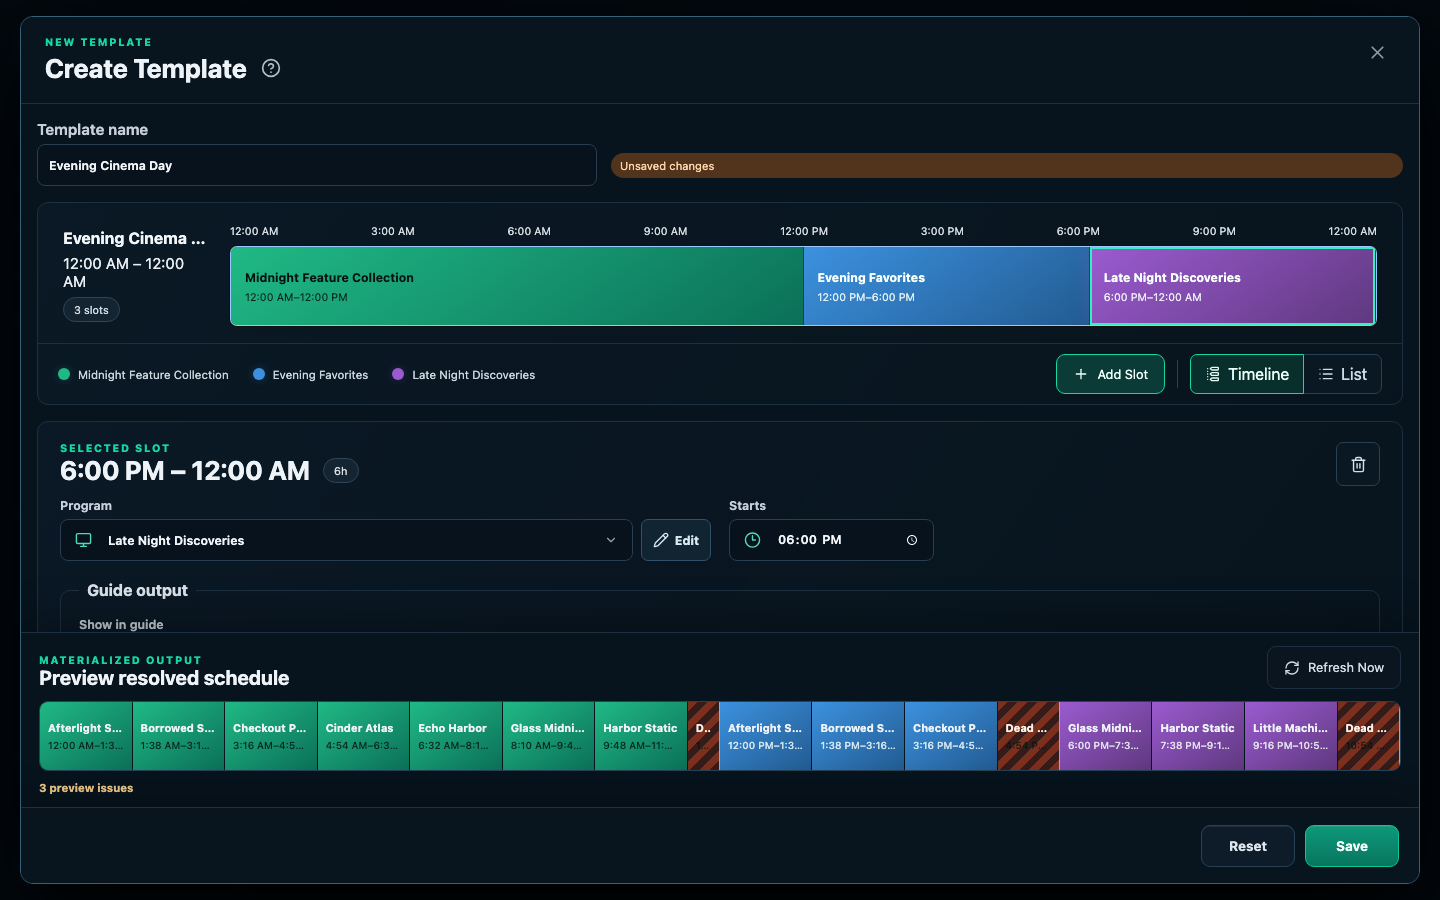
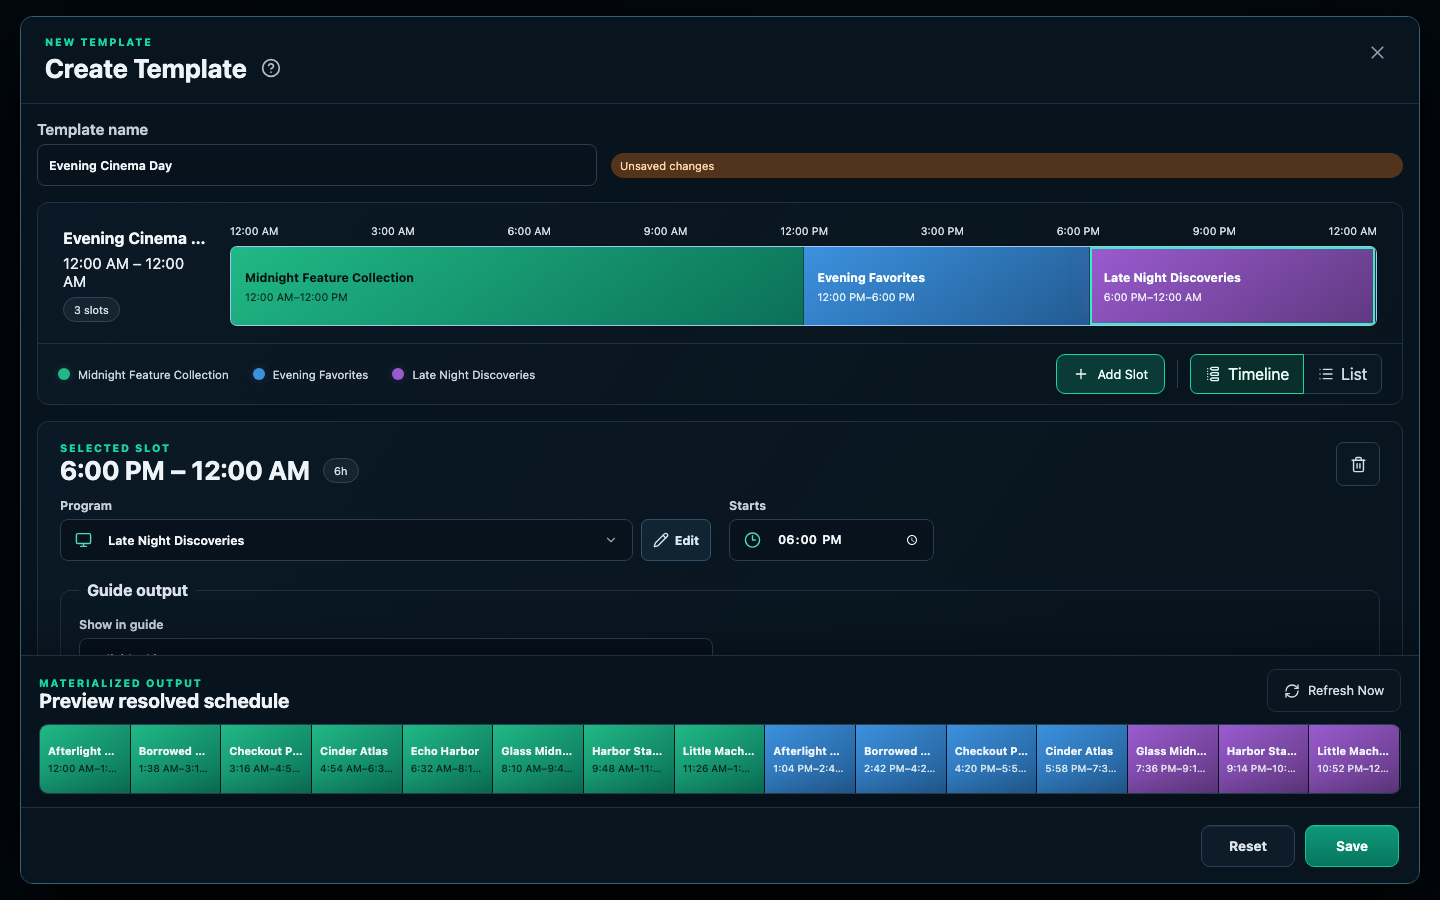
Modified new template defaults

Changed region(s): [[0.0, 0.6844, 1.0, 0.9022]]

diff --git a/tests/e2e/user-documentation.spec.ts b/tests/e2e/user-documentation.spec.ts
@@ -182,6 +182,33 @@ test('sorts Templates by name ignoring leading articles and punctuation', async 
 	]);
 });
 
+test('saves new template defaults with unlimited finish-left boundaries', async ({ page, documentationServer }) => {
+	await seedSchedule(page, documentationServer.directory);
+	await page.goto('/schedules/templates/new');
+	const editor = page.getByRole('dialog', { name: 'Template editor', exact: true });
+	await editor.getByRole('textbox', { name: 'Template name' }).fill('Continuous default');
+	await editor.getByRole('button', { name: 'Advanced scheduling behavior' }).click();
+	await expect(editor.getByRole('combobox', { name: 'Item start rule', exact: true })).toHaveValue('allow-overrun');
+	await expect(editor.getByRole('combobox', { name: 'Policy', exact: true })).toHaveValue('finish-left');
+	await expect(editor.getByRole('button', { name: 'No Limit', exact: true })).toHaveAttribute('aria-pressed', 'true');
+	await editor.getByRole('button', { name: 'Add Slot', exact: true }).click();
+	await editor.locator('.template-timeline').press('Enter');
+
+	const saved = page.waitForResponse(response => response.request().method() === 'POST'
+		&& response.url().endsWith('/api/v1/schedule-templates'));
+	await editor.getByRole('button', { name: 'Save', exact: true }).click();
+	const response = await saved;
+	expect(response.ok()).toBe(true);
+	const template = await response.json() as ScheduleTemplate;
+	expect(template.slots).toHaveLength(2);
+	expect(template.slots.every(slot => slot.startEligibility.type === 'allow-overrun')).toBe(true);
+	expect(template.boundaries).toHaveLength(2);
+	expect(template.boundaries.every(boundary => boundary.policy === 'finish-left' && boundary.maxDriftSeconds === null)).toBe(true);
+	await page.goto(`/schedules/templates/${template.id}`);
+	await expect(editor.getByRole('combobox', { name: 'Item start rule', exact: true })).toHaveValue('allow-overrun');
+	await expect(editor.getByRole('button', { name: 'No Limit', exact: true })).toHaveAttribute('aria-pressed', 'true');
+});
+
 test('captures Templates', async ({ page, documentationServer }) => {
 	const { sequenceProgramIds } = await seedSchedule(page, documentationServer.directory);
 	await page.goto('/schedules/templates');

diff --git a/tests/apps/web/src/schedule-geometry.test.ts b/tests/apps/web/src/schedule-geometry.test.ts
@@ -1,10 +1,11 @@
 import { describe, expect, it } from 'vitest';
 import { reactive } from 'vue';
-import { SECONDS_PER_SCHEDULING_DAY, type ScheduleTemplateCreate } from '@moirai/shared';
+import { DEFAULT_TEMPLATE_BOUNDARY_BEHAVIOR, SECONDS_PER_SCHEDULING_DAY, type ScheduleTemplateCreate } from '@moirai/shared';
 import {
 	deleteScheduleSlot,
 	midpointSlotPlacement,
 	moveScheduleBoundary,
+	rebuildBoundaries,
 	slotPlacementForTime,
 	splitScheduleSlot,
 	timelineSlotPlacement,
@@ -52,12 +53,35 @@ describe('schedule geometry', () => {
 		expect(result.slots.map((slot) => slot.startSeconds)).toEqual([0, splitAt]);
 		expect(result.boundaries.find((boundary) => boundary.leftSlotId === 'slot-a')).toMatchObject({
 			targetSeconds: splitAt,
-			policy: 'hard',
+			...DEFAULT_TEMPLATE_BOUNDARY_BEHAVIOR,
 		});
 		expect(result.boundaries.find((boundary) => boundary.leftSlotId === 'slot-b')).toMatchObject({
 			targetSeconds: SECONDS_PER_SCHEDULING_DAY,
 			policy: 'finish-left',
+			maxDriftSeconds: 900,
 		});
+	});
+
+	it('preserves unlimited drift through splitting, moving, and deleting slots', () => {
+		const template = initial();
+		template.boundaries[0]!.maxDriftSeconds = null;
+		const split = splitScheduleSlot(template, 'slot-a', SECONDS_PER_SCHEDULING_DAY / 2);
+		const right = split.slots[1]!;
+		const moved = moveScheduleBoundary(split, right.id, SECONDS_PER_SCHEDULING_DAY / 3);
+		const deleted = deleteScheduleSlot(moved, right.id);
+
+		for (const result of [split, moved, deleted]) {
+			expect(result.boundaries.every(boundary => boundary.maxDriftSeconds === null)).toBe(true);
+		}
+		expect(deleted.boundaries[0]!.id).toBe(template.boundaries[0]!.id);
+	});
+
+	it('uses authoring defaults only for missing boundaries', () => {
+		const template = initial();
+		expect(rebuildBoundaries(template.slots, [])[0]).toMatchObject(DEFAULT_TEMPLATE_BOUNDARY_BEHAVIOR);
+		template.boundaries[0]!.policy = 'hard';
+		template.boundaries[0]!.maxDriftSeconds = 0;
+		expect(rebuildBoundaries(template.slots, template.boundaries)[0]).toMatchObject(template.boundaries[0]!);
 	});
 
 	it('snaps timeline placement to fifteen minutes within the containing slot', () => {

diff --git a/apps/web/src/schedule-geometry.ts b/apps/web/src/schedule-geometry.ts
@@ -1,4 +1,5 @@
 import {
+	DEFAULT_TEMPLATE_BOUNDARY_BEHAVIOR,
 	SECONDS_PER_SCHEDULING_DAY,
 	type ScheduleBoundary,
 	type ScheduleSlot,
@@ -85,7 +86,7 @@ export function midpointSlotPlacement(
 	return slotPlacementForTime(template, slot.id, slot.startSeconds + (end - slot.startSeconds) / 2);
 }
 
-/** Reconnect outgoing boundaries to match the current contiguous slot order. */
+/** Reconnect outgoing boundaries, preserving saved drift limits and defaulting only missing boundaries. */
 export function rebuildBoundaries(
 	slots: ScheduleSlot[],
 	boundaries: ScheduleBoundary[],
@@ -101,15 +102,15 @@ export function rebuildBoundaries(
 			leftSlotId: slot.id,
 			rightSlotId: right.id,
 			targetSeconds: index === ordered.length - 1 ? SECONDS_PER_SCHEDULING_DAY : right.startSeconds,
-			policy: existing?.policy ?? 'hard',
-			maxDriftSeconds: existing?.maxDriftSeconds ?? 0,
-			fallback: existing?.fallback ?? 'reject-start',
-			earlyStartMaxDriftSeconds: existing?.earlyStartMaxDriftSeconds ?? 0,
+			policy: existing?.policy ?? DEFAULT_TEMPLATE_BOUNDARY_BEHAVIOR.policy,
+			maxDriftSeconds: existing ? existing.maxDriftSeconds : DEFAULT_TEMPLATE_BOUNDARY_BEHAVIOR.maxDriftSeconds,
+			fallback: existing?.fallback ?? DEFAULT_TEMPLATE_BOUNDARY_BEHAVIOR.fallback,
+			earlyStartMaxDriftSeconds: existing?.earlyStartMaxDriftSeconds ?? DEFAULT_TEMPLATE_BOUNDARY_BEHAVIOR.earlyStartMaxDriftSeconds,
 		};
 	});
 }
 
-/** Split one slot while preserving a contiguous full-day template. */
+/** Copy a slot and add a default boundary while preserving its former outgoing boundary. */
 export function splitScheduleSlot(
 	template: ScheduleTemplateCreate,
 	slotId: string,
@@ -148,10 +149,7 @@ export function splitScheduleSlot(
 			leftSlotId: slot.id,
 			rightSlotId: right.id,
 			targetSeconds: splitSeconds,
-			policy: 'hard',
-			maxDriftSeconds: 0,
-			fallback: 'reject-start',
-			earlyStartMaxDriftSeconds: 0,
+			...DEFAULT_TEMPLATE_BOUNDARY_BEHAVIOR,
 		});
 	if (outgoing) {
 		preserved.push({ ...outgoing, leftSlotId: right.id });

diff --git a/apps/server/src/scheduling/quick-setup-resources.ts b/apps/server/src/scheduling/quick-setup-resources.ts
@@ -1,5 +1,6 @@
 import { randomUUID } from 'node:crypto';
 import {
+	DEFAULT_TEMPLATE_BOUNDARY_BEHAVIOR, DEFAULT_TEMPLATE_START_ELIGIBILITY,
 	SECONDS_PER_SCHEDULING_DAY, channelCreateSchema,
 	type Channel, type ChannelSchedule, type ProgramConfig, type QuickChannelSetupCreate,
 	type ScheduleTemplate, type SchedulingProgram,
@@ -74,7 +75,7 @@ export function quickSetupResources(
 			startSeconds: 0,
 			programId: programId!,
 			stateScope: 'persistent',
-			startEligibility: { type: 'allow-overrun' },
+			startEligibility: { ...DEFAULT_TEMPLATE_START_ELIGIBILITY },
 			filler: { mode: 'inherit' },
 		}],
 		boundaries: [{
@@ -82,10 +83,7 @@ export function quickSetupResources(
 			leftSlotId: slotId!,
 			rightSlotId: slotId!,
 			targetSeconds: SECONDS_PER_SCHEDULING_DAY,
-			policy: 'finish-left',
-			maxDriftSeconds: null,
-			fallback: 'reject-start',
-			earlyStartMaxDriftSeconds: 0,
+			...DEFAULT_TEMPLATE_BOUNDARY_BEHAVIOR,
 		}],
 		createdAt: timestamp,
 		updatedAt: timestamp,

diff --git a/apps/web/src/components/templates/TemplateEditor.vue b/apps/web/src/components/templates/TemplateEditor.vue
@@ -14,6 +14,8 @@ import {
 	Trash2,
 } from '@lucide/vue';
 import {
+	DEFAULT_TEMPLATE_BOUNDARY_BEHAVIOR,
+	DEFAULT_TEMPLATE_START_ELIGIBILITY,
 	SECONDS_PER_SCHEDULING_DAY,
 	scheduleTemplateCreateSchema,
 	type ScheduleBoundary,
@@ -244,7 +246,7 @@ function loadDraft(): void {
 					startSeconds: 0,
 					programId: programs.value[0]?.id ?? null,
 					stateScope: 'persistent',
-					startEligibility: { type: 'require-fit' },
+					startEligibility: { ...DEFAULT_TEMPLATE_START_ELIGIBILITY },
 					filler: programs.value[0] ? { mode: 'inherit' } : { mode: 'disabled' },
 				},
 			],
@@ -254,10 +256,7 @@ function loadDraft(): void {
 					leftSlotId: slotId,
 					rightSlotId: slotId,
 					targetSeconds: SECONDS_PER_SCHEDULING_DAY,
-					policy: 'hard',
-					maxDriftSeconds: 0,
-					fallback: 'reject-start',
-					earlyStartMaxDriftSeconds: 0,
+					...DEFAULT_TEMPLATE_BOUNDARY_BEHAVIOR,
 				},
 			],
 		};

diff --git a/packages/shared/src/template-defaults.ts b/packages/shared/src/template-defaults.ts
@@ -1,0 +1,12 @@
+import type { ScheduleBoundary, StartEligibility } from './scheduling.js';
+
+/** Let newly authored template slots start an item even when it crosses their nominal end. */
+export const DEFAULT_TEMPLATE_START_ELIGIBILITY = { type: 'allow-overrun' } as const satisfies StartEligibility;
+
+/** Finish outgoing items without a drift cap when authoring new template boundaries. */
+export const DEFAULT_TEMPLATE_BOUNDARY_BEHAVIOR = {
+	policy: 'finish-left',
+	maxDriftSeconds: null,
+	fallback: 'reject-start',
+	earlyStartMaxDriftSeconds: 0,
+} as const satisfies Pick<ScheduleBoundary, 'policy' | 'maxDriftSeconds' | 'fallback' | 'earlyStartMaxDriftSeconds'>;

diff --git a/packages/shared/src/index.ts b/packages/shared/src/index.ts
@@ -12,6 +12,7 @@ import type {
 } from './availability.js';
 
 export * from './scheduling.js';
+export * from './template-defaults.js';
 export * from './guide.js';
 export * from './normalization.js';
 export * from './catalog.js';

diff --git a/apps/docs/src/scheduling/templates.md b/apps/docs/src/scheduling/templates.md
@@ -44,6 +44,8 @@ The Templates list is alphabetical by name, ignoring punctuation and leading “
 
 ## Create a Template and add slots
 
+New templates default to **Allow overrun** for **Item start rule**, **Finish left item** for the outgoing boundary **Policy**, and **No Limit** for **Maximum drift**. This lets the current item finish instead of cutting it at the nominal slot end. Added slots copy the selected slot’s item start rule and use these defaults for the new boundary. Existing templates keep their saved settings.
+
 Create the ![](/icons/list-video.svg) Programs you want to use first, then open ![](/icons/calendar-range.svg) Templates and choose **New Template**. Give it a descriptive name, such as “Evening Cinema Day.” A new ![](/icons/calendar-range.svg) Template starts with one slot covering midnight to midnight. Timeline and slot labels use 12-hour time with AM or PM.
 
 1. Select the initial slot and choose its **Program** in the **Selected slot** panel.

diff --git a/docs/technical-outline.md b/docs/technical-outline.md
@@ -572,6 +572,10 @@ Programs, ignoring punctuation and leading A, An, or The.
 
 A template describes one nominal local day. Slots allocate time to programs, while explicit
 boundaries describe how adjacent slots resolve against real media durations.
+New editor templates share Quick Setup's allow-overrun item starts and finish-left boundaries with
+unlimited drift. Added slots retain their source slot's settings and default new boundaries to
+finish-left with unlimited drift. Geometry edits preserve explicit unlimited drift. Stored templates
+and omitted-field API parsing retain their existing behavior.
 
 A channel has an always-available base template. Conditional templates stack above it and can use
 nested date, month, weekday, annual-range, and time-range predicates. A no-program slot is transparent:
